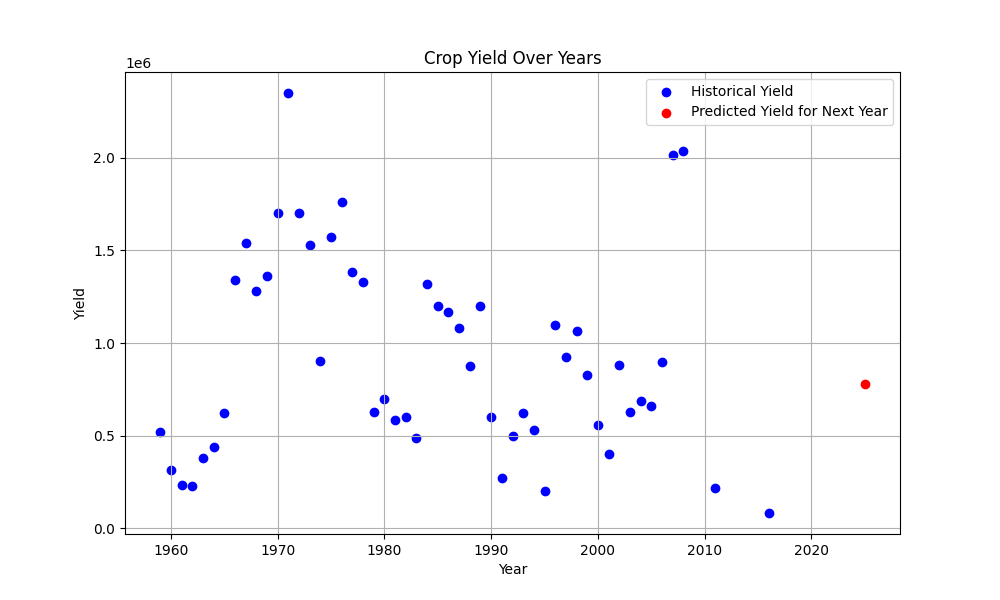
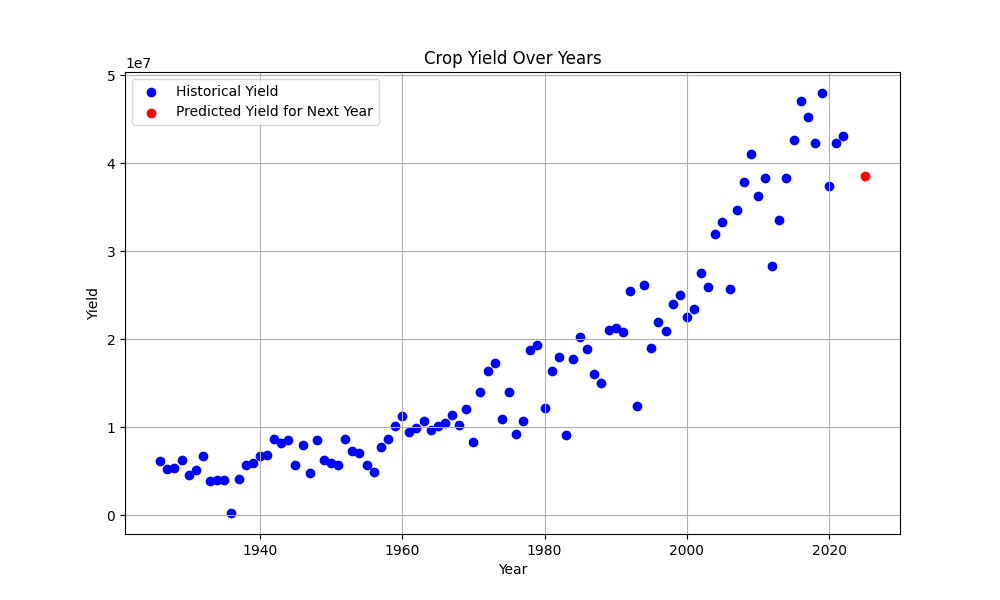
Updated to Chart.js

diff --git a/frontend/crop-yield/src/App.js b/frontend/crop-yield/src/App.js
@@ -1,14 +1,15 @@
 import React, { useState, useEffect } from 'react';
 import './App.css';
 import cornImage from './cornimage.jpeg';
+import Chart from 'chart.js/auto'; // Import Chart.js
 
 function App() {
   const [countyCode, setCountyCode] = useState('');
   const [stateCode, setStateCode] = useState('');
   const [predictionResult, setPredictionResult] = useState(null);
+  const [cleanedData, setCleanedData] = useState(null); // State to hold cleaned data
   const [error, setError] = useState(null);
   const [formSubmitted, setFormSubmitted] = useState(false);
-  const [graphImage, setGraphImage] = useState(null);
 
   const handleCountyCodeChange = (event) => {
     setCountyCode(event.target.value);
@@ -21,9 +22,10 @@ function App() {
   const handleSubmit = async (event) => {
     event.preventDefault();
     setFormSubmitted(true);
+    setPredictionResult(null); // Clear prediction result
+    setCleanedData(null);
     
     try {
-      //Adjust to whatever the IP will be for the server
       const response = await fetch("http://127.0.0.1:5000/predict", {
         method: 'POST',
         headers: {
@@ -36,20 +38,70 @@ function App() {
       });
       
       const data = await response.json();
-      console.log(data); // Check if the response data is correct
+      console.log(data);
       
-      setPredictionResult(data.nextYearPrediction); // Update prediction result state
-      setGraphImage(data.graph_image);
+      setPredictionResult(data.nextYearPrediction);
+      setCleanedData(data.cleaned_csv_data);
     } catch (error) {
       console.error('Error:', error);
       setError(error.message);
     }
-    
   };
-  
+
+  const prediction = predictionResult && predictionResult.length > 0 ? predictionResult[0] : null;
+
+  // Draw the scatter plot when cleaned data and prediction result are available
   useEffect(() => {
-    console.log('graphImage:', graphImage); // Log the graphImage state
-  }, [graphImage]);
+    if (cleanedData && prediction !== null) {
+      const ctx = document.getElementById('scatterChart').getContext('2d');
+      
+      // Extract x and y data from cleanedData
+      const xData = cleanedData.map(entry => entry.YEAR);
+      const yData = cleanedData.map(entry => entry.VALUE);
+
+      const nextYear = new Date().getFullYear() + 1;
+
+      const scatterChartData = {
+        datasets: [{
+          label: 'Crop Yield Over Years',
+          data: xData.map((x, i) => ({ x, y: yData[i] })),
+          backgroundColor: 'blue',
+          pointRadius: 5,
+          pointHoverRadius: 8,
+        },
+        {
+          label: 'Next Year Prediction',
+          data: [{ x: nextYear, y: prediction }],
+          backgroundColor: 'red',
+          pointRadius: 8,
+          pointHoverRadius: 10,
+        }]
+      };
+
+      new Chart(ctx, {
+        type: 'scatter',
+        data: scatterChartData,
+        options: {
+          scales: {
+            x: {
+              type: 'linear',
+              position: 'bottom',
+              title: {
+                display: true,
+                text: 'Year'
+              }
+            },
+            y: {
+              title: {
+                display: true,
+                text: 'Yield'
+              }
+            }
+          }
+        }
+      });
+    }
+  }, [cleanedData, prediction]);
 
   return (
     <div className="App">
@@ -69,12 +121,11 @@ function App() {
           </label>
           <button type="submit">Submit</button>
         </form>
-        {formSubmitted && predictionResult !== null && (
+        {formSubmitted && cleanedData && predictionResult !== null && (
           <div>
             <h2>Prediction Results</h2>
             <p style={{fontSize:"30px"}}>Next year's predicted yield: {Math.round(predictionResult)} bushels</p>
-            
-            {graphImage && <img src={`${graphImage}?${new Date().getTime()}`} alt="Prediction Graph" />}
+            <canvas id="scatterChart" width="400" height="400"></canvas> {/* Chart container */}
           </div>
         )}
 

diff --git a/backend/server.py b/backend/server.py
@@ -1,39 +1,14 @@
 import os
 import pandas as pd
-from flask import Flask, request, jsonify
+from flask import Flask, request, jsonify, send_from_directory
 from flask_cors import CORS
 from sklearn.model_selection import train_test_split
 from sklearn.linear_model import LinearRegression
-from sklearn.metrics import mean_squared_error
 from datetime import datetime
-import matplotlib
-matplotlib.use('Agg')
-import matplotlib.pyplot as plt
 import data_filterer
-from flask import Flask, send_from_directory
-
-
 
 app = Flask(__name__)
 CORS(app)
-
-# Define the directory to save static files
-STATIC_FOLDER = os.path.join(os.path.dirname(os.path.abspath(__file__)), 'static')
-app.config['STATIC_FOLDER'] = STATIC_FOLDER
-
-def generate_plot(X, y, next_year, next_year_prediction):
-    plt.figure(figsize=(10, 6))
-    plt.scatter(X, y, color='blue', label='Historical Yield')
-    plt.scatter(next_year, next_year_prediction, color='red', label='Predicted Yield for Next Year')
-    plt.xlabel('Year')
-    plt.ylabel('Yield')
-    plt.title('Crop Yield Over Years')
-    plt.legend()
-    plt.grid(True)
-    temp_file = os.path.join(app.config['STATIC_FOLDER'], 'temp_plot.png')
-    plt.savefig(temp_file)
-    plt.close()  # Close plot to prevent memory leaks
-    return temp_file
 
 @app.route('/predict', methods=['POST'])
 def predict():
@@ -49,7 +24,6 @@ def predict():
     output_file = f'state_{state_code}_county_{county_code}_subset.csv'  # Adjust the output file path as needed
 
     county_data = data_filterer.process_county(state_code, county_code, input_file, output_file)
-    # county_data = pd.read_csv(output_file)
 
     X = county_data[['YEAR']]
     y = county_data[["VALUE"]]
@@ -64,20 +38,13 @@ def predict():
     next_year_data = pd.DataFrame({'YEAR': [next_year]})
     next_year_prediction = model.predict(next_year_data)
 
-    generate_plot(X, y, next_year, next_year_prediction)
-
     # Prepare results
     results = {
         'nextYearPrediction': next_year_prediction.tolist()[0],  # Assuming single prediction
-        'graph_image': 'http://127.0.0.1:5000/static/temp_plot.png'
+        'cleaned_csv_data': county_data.to_dict(orient='records')
     }
 
     return jsonify(results)
-
-# Define a route to serve static files
-@app.route('/static/<path:path>')
-def serve_static(path):
-    return send_from_directory('static', path)
 
 if __name__ == '__main__':
     app.run(debug=True)
